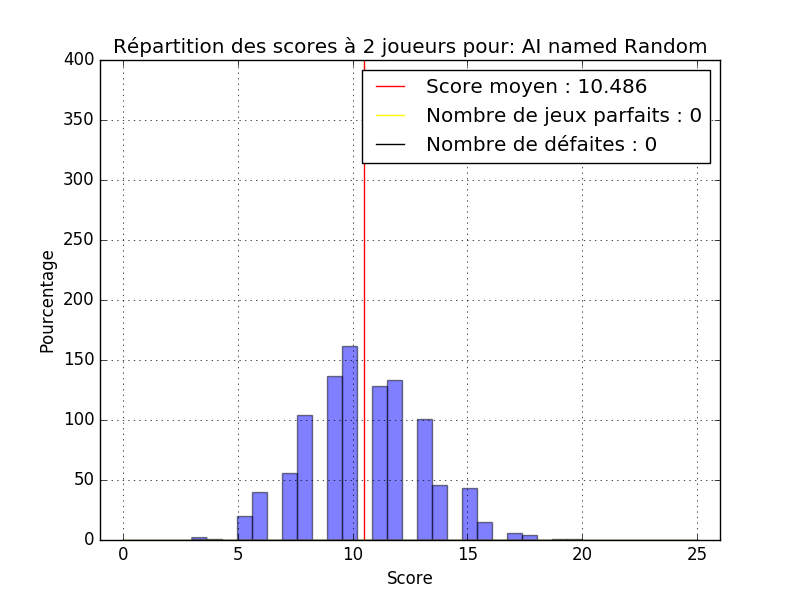
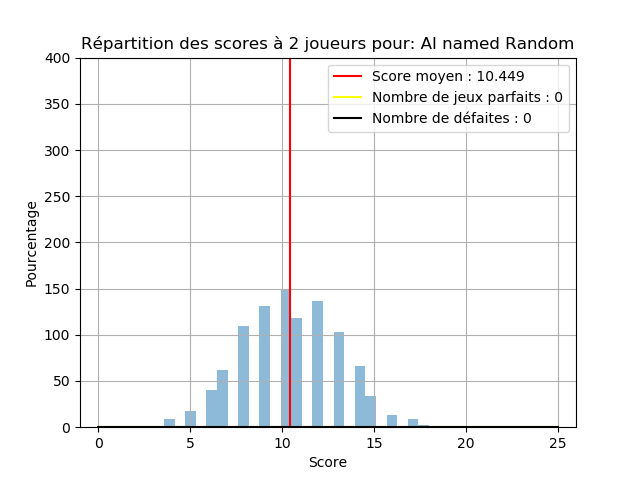
ajout images rapport

diff --git a/test/script_comparison.py b/test/script_comparison.py
@@ -7,10 +7,10 @@ import hanabi.ai_recom
 
 ai1 = hanabi.ai_recom.Recom_Strategist_2()
 ai2 = hanabi.ai.Random()
-#ai3 = rec1.Recom_Strategist()
+ai3 = hanabi.ai.Cheater()
 
-a,b = c.compare([ai1, ai2], 1000)
-c.affichage_alone(b[0], a[0], "AI named Recommandation")
-c.affichage_alone(b[1], a[1], "AI named Random")
+a,b = c.compare([ai1, ai3], 1000)
+c.affichage_alone(b[0], a[0], "AI named Recom")
+c.affichage_alone(b[1], a[1], "AI named Cheater")
 #c.affichage_alone(b[1], a[1], "AI that plays with a recommandation strategy")
 c.affichage_general(b,a)

diff --git a/src/hanabi/ai_recom.py b/src/hanabi/ai_recom.py
@@ -6,6 +6,8 @@ import itertools
 import hanabi
 from hanabi.ai import AI
 
+def print(*args, **kwargs):
+    pass
 
 class Recom_Strategist_2(AI):
 

diff --git a/src/hanabi/ai_recommandation_strategy.py b/src/hanabi/ai_recommandation_strategy.py
@@ -6,6 +6,8 @@ import itertools
 import hanabi
 from hanabi.ai import AI
 
+def print(*args, **kwargs):
+    pass
 
 class Recom_Strategist(AI):
 
